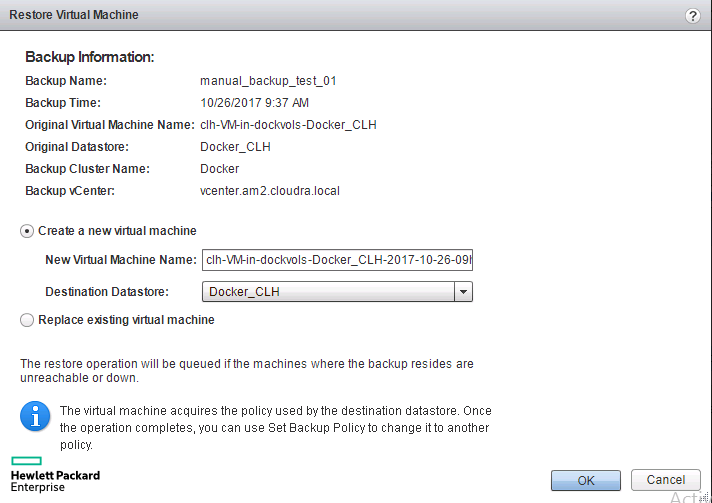
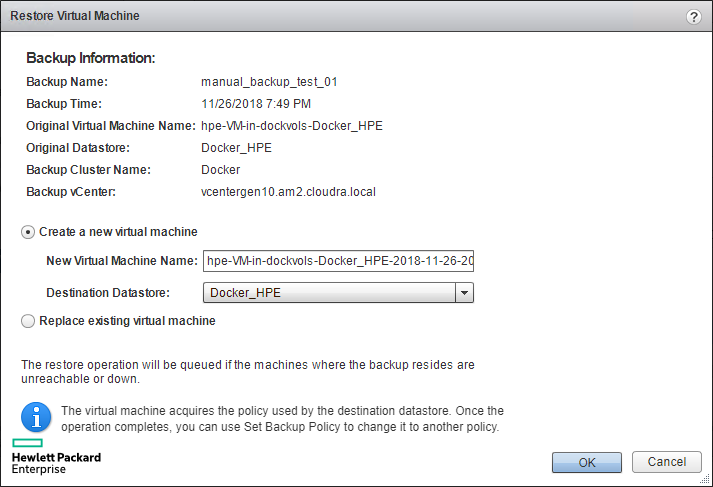
ansible version

Changed region(s): [[0.0, 0.7084, 1.0, 1.0], [0.0, 0.0, 1.0, 0.4004], [0.0309, 0.4312, 0.6798, 0.6776]]

diff --git a/ops/README.md b/ops/README.md
@@ -670,7 +670,7 @@
 <ul class="ul">
 <li class="li"><a class="xref" href="#create-rhel-vms">Provisioning RHEL VMs</a></li>
 
-<li class="li"><a class="xref" href="#unique_1734056882">Provisioning load balancers for UCP and DTR</a></li>
+<li class="li"><a class="xref" href="#unique_1576949280">Provisioning load balancers for UCP and DTR</a></li>
 
 <li class="li"><a class="xref" href="#install-docker-ucp-dtr">Installing Docker UCP and DTR on RHEL VMs</a></li>
 
@@ -3658,7 +3658,7 @@ the deployment to your needs.
 <ul class="ul">
 <li class="li"><a class="xref" href="#create-rhel-vms">Provisioning RHEL VMs</a></li>
 
-<li class="li"><a class="xref" href="#unique_1734056882">Provisioning load balancers for UCP and DTR</a></li>
+<li class="li"><a class="xref" href="#unique_1576949280">Provisioning load balancers for UCP and DTR</a></li>
 
 <li class="li"><a class="xref" href="#install-docker-ucp-dtr">Installing Docker UCP and DTR on RHEL VMs</a></li>
 
@@ -3854,7 +3854,7 @@ order to have a synchronized clock across the environment. It will use the list 
 </div>
 
 </div>
-<div class="topic nested1" aria-labelledby="ariaid-title56" id="unique_1734056882">
+<div class="topic nested1" aria-labelledby="ariaid-title56" id="unique_1576949280">
 <h2 class="title topictitle2" id="ariaid-title56">Provisioning load balancers for UCP and DTR</h2>
 
 <div class="body">
@@ -7037,7 +7037,7 @@ test_01
   
 <pre class="pre codeblock"><code>
 # docker volume ls | grep vsphere
-vsphere:latest      prom_clh-db-data@Docker_CLH
+vsphere:latest      prom_hpe-db-data@Docker_CLH
 vsphere:latest      test_01@Docker_CLH
 </code></pre>  
 
@@ -7081,18 +7081,18 @@ Status: Downloaded newer image for alpine:latest
 
 <pre class="pre codeblock"><code>
 backup_policies:
- - name: 'clh-gold'
+ - name: 'hpe-gold'
    days: 'All'
    start_time: '00:00'
    frequency: '60'
    retention: '43200'
 
-dummy_vm_prefix: 'clh-VM'
+dummy_vm_prefix: 'hpe-VM'
 
-docker_volumes_policy: 'clh-gold'
+docker_volumes_policy: 'hpe-gold'
 </code></pre>
 
-<p class="p">The backup policy <code class="ph codeph">clh-gold</code> is assigned to the special VM that is used to back up the Docker volumes. 
+<p class="p">The backup policy <code class="ph codeph">hpe-gold</code> is assigned to the special VM that is used to back up the Docker volumes. 
   This policy specifies that a backup is taken every hour (<code class="ph codeph">frequency: '60'</code> means sixty minutes) 
   while the backup is retained for one month (<code class="ph codeph">retention: '43200'</code> means 43200 minutes or thirty days).</p>
   
@@ -7171,7 +7171,7 @@ docker_volumes_policy: 'clh-gold'
 
 
 <p class="p">The name of the new virtual machine will default to a combination of the special VM name and a timestamp, 
-  in this instance <code class="ph codeph">hpe-VM-in-dockervols-Docker_SVT-2017-10-26-09h47m00s</code>. 
+  in this instance <code class="ph codeph">hpe-VM-in-dockervols-Docker_HPE-2018-11-26-20h47m01s</code>. 
   The datastore should be the one specified in the datastores array from the <code class="ph codeph">group_vars/vars</code> file. 
   Click OK to restore the virtual machine.</p>
 
@@ -7244,8 +7244,8 @@ docker_volumes_policy: 'clh-gold'
 
 <pre class="pre codeblock"><code>
 # docker volume ls | grep vsphere
-vsphere:latest      prom_clh-db-data@Docker_CLH
-vsphere:latest      <strong class="ph b">test_01@Docker_CLH</strong>
+vsphere:latest      prom_hpe-db-data@Docker_HPE
+vsphere:latest      <strong class="ph b">test_01@Docker_HPE</strong>
 </code></pre>
 
 <p class="p">You can verify that the volume contains the correct data by spinning up a container and running a shell command:</p>

diff --git a/ops/test.md b/ops/test.md
@@ -670,7 +670,7 @@
 <ul class="ul">
 <li class="li"><a class="xref" href="#create-rhel-vms">Provisioning RHEL VMs</a></li>
 
-<li class="li"><a class="xref" href="#unique_1734056882">Provisioning load balancers for UCP and DTR</a></li>
+<li class="li"><a class="xref" href="#unique_1576949280">Provisioning load balancers for UCP and DTR</a></li>
 
 <li class="li"><a class="xref" href="#install-docker-ucp-dtr">Installing Docker UCP and DTR on RHEL VMs</a></li>
 
@@ -3658,7 +3658,7 @@ the deployment to your needs.
 <ul class="ul">
 <li class="li"><a class="xref" href="#create-rhel-vms">Provisioning RHEL VMs</a></li>
 
-<li class="li"><a class="xref" href="#unique_1734056882">Provisioning load balancers for UCP and DTR</a></li>
+<li class="li"><a class="xref" href="#unique_1576949280">Provisioning load balancers for UCP and DTR</a></li>
 
 <li class="li"><a class="xref" href="#install-docker-ucp-dtr">Installing Docker UCP and DTR on RHEL VMs</a></li>
 
@@ -3854,7 +3854,7 @@ order to have a synchronized clock across the environment. It will use the list 
 </div>
 
 </div>
-<div class="topic nested1" aria-labelledby="ariaid-title56" id="unique_1734056882">
+<div class="topic nested1" aria-labelledby="ariaid-title56" id="unique_1576949280">
 <h2 class="title topictitle2" id="ariaid-title56">Provisioning load balancers for UCP and DTR</h2>
 
 <div class="body">
@@ -7037,7 +7037,7 @@ test_01
   
 <pre class="pre codeblock"><code>
 # docker volume ls | grep vsphere
-vsphere:latest      prom_clh-db-data@Docker_CLH
+vsphere:latest      prom_hpe-db-data@Docker_CLH
 vsphere:latest      test_01@Docker_CLH
 </code></pre>  
 
@@ -7081,18 +7081,18 @@ Status: Downloaded newer image for alpine:latest
 
 <pre class="pre codeblock"><code>
 backup_policies:
- - name: 'clh-gold'
+ - name: 'hpe-gold'
    days: 'All'
    start_time: '00:00'
    frequency: '60'
    retention: '43200'
 
-dummy_vm_prefix: 'clh-VM'
+dummy_vm_prefix: 'hpe-VM'
 
-docker_volumes_policy: 'clh-gold'
+docker_volumes_policy: 'hpe-gold'
 </code></pre>
 
-<p class="p">The backup policy <code class="ph codeph">clh-gold</code> is assigned to the special VM that is used to back up the Docker volumes. 
+<p class="p">The backup policy <code class="ph codeph">hpe-gold</code> is assigned to the special VM that is used to back up the Docker volumes. 
   This policy specifies that a backup is taken every hour (<code class="ph codeph">frequency: '60'</code> means sixty minutes) 
   while the backup is retained for one month (<code class="ph codeph">retention: '43200'</code> means 43200 minutes or thirty days).</p>
   
@@ -7171,7 +7171,7 @@ docker_volumes_policy: 'clh-gold'
 
 
 <p class="p">The name of the new virtual machine will default to a combination of the special VM name and a timestamp, 
-  in this instance <code class="ph codeph">hpe-VM-in-dockervols-Docker_SVT-2017-10-26-09h47m00s</code>. 
+  in this instance <code class="ph codeph">hpe-VM-in-dockervols-Docker_HPE-2018-11-26-20h47m01s</code>. 
   The datastore should be the one specified in the datastores array from the <code class="ph codeph">group_vars/vars</code> file. 
   Click OK to restore the virtual machine.</p>
 
@@ -7244,8 +7244,8 @@ docker_volumes_policy: 'clh-gold'
 
 <pre class="pre codeblock"><code>
 # docker volume ls | grep vsphere
-vsphere:latest      prom_clh-db-data@Docker_CLH
-vsphere:latest      <strong class="ph b">test_01@Docker_CLH</strong>
+vsphere:latest      prom_hpe-db-data@Docker_HPE
+vsphere:latest      <strong class="ph b">test_01@Docker_HPE</strong>
 </code></pre>
 
 <p class="p">You can verify that the volume contains the correct data by spinning up a container and running a shell command:</p>
